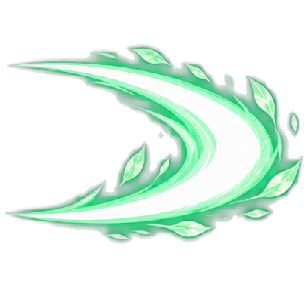
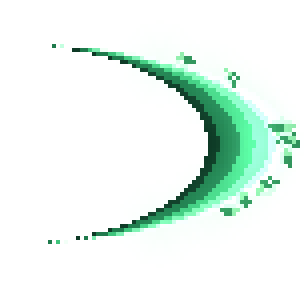
Effets pixelfx (test) : arc de la dague refait en croissant de lune pixel art (effet melee/moon-crescent ecrit avec pixelfx, 3 directions, meme canvas et meme zone de coup) et feu de camp pixelfx (36 images en boucle a 12 i/s au lieu de 4) ; originaux IA gardes ; scripts d'export dans tools/pixelfx

diff --git a/tools/pixelfx/moon-crescent.js b/tools/pixelfx/moon-crescent.js
@@ -1,0 +1,117 @@
+// Croissant de lune : l'arc de la dague d'Agarica (Legend of Agarica). Un croissant « ) » qui claque blanc,
+// s'épaissit en vert lunaire avec des feuilles arrachées sur son bord, puis s'effile en pointillés.
+import { Rng, fit, sparkle, clamp, smooth, ease, WHITE } from "../../core/index.js";
+
+export const meta = {
+  name: "Moon crescent",
+  desc: "A wide crescent snaps open white, swells into moon green with torn leaves riding its rim, then thins to a dotted trace as the leaves drift off.",
+  tags: ["melee", "slash", "dagger", "crescent", "leaves", "directional", "one-shot"],
+  size: [77, 72],
+  origin: [38, 36],
+  duration: 0.3,
+  loop: false,
+  fps: 30,
+  bg: "dark",
+  options: {
+    palette: ["#0e3a26", "#1f7a4c", "#3fc47c", "#7dedb0", "#c4ffe0", "#f2fff7"],
+    leaf: ["#2f8f58", "#8fe6a8", "#d8ffe6"],
+    // "side" : bombé vers la droite ; "up" : vers le haut ; "down" : vers le bas
+    dir: "side",
+    seed: 3,
+  },
+};
+
+// Gabarits par direction, en px autour du centre : `len` = du bout des pointes au sommet du bombé,
+// `half` = demi-ouverture, `thick` = épaisseur au sommet. Calés sur la zone de coup du jeu.
+const SHAPES = {
+  side: { len: 70, half: 25, thick: 21 },
+  up: { len: 66, half: 27, thick: 20 },
+  down: { len: 66, half: 27, thick: 20 },
+};
+
+// (u, v) : u le long du bombé (0 = pointes, len = sommet), v en travers. Rend la place dans le croissant :
+// q = 0 sur le bord extérieur, 1 sur le bord intérieur ; null dehors. `w` = épaisseur au sommet à cet instant.
+function inCrescent(S, u, v, w, grow) {
+  const k = v / S.half;
+  if (Math.abs(k) >= 1) return null;
+  // coque de demi-ellipse : les deux bords partent des pointes, l'épaisseur fond vers elles
+  const r = Math.sqrt(1 - k * k), uo = S.len * grow * r, local = Math.max(0.7, w * Math.pow(r, 0.85));
+  if (u > uo || u < uo - local) return null;
+  return { q: clamp((uo - u) / local), local, tip: r };
+}
+
+function toLocal(dir, x, y, S) {
+  // centre du gabarit au centre de l'image
+  if (dir === "up") return [S.len / 2 - y, x];
+  if (dir === "down") return [S.len / 2 + y, -x];
+  return [x + S.len / 2, y];
+}
+
+function fromLocal(dir, u, v, S) {
+  if (dir === "up") return [v, S.len / 2 - u];
+  if (dir === "down") return [-v, u - S.len / 2];
+  return [u - S.len / 2, v];
+}
+
+// petite feuille en losange, 2 tons, tournée selon `a`
+function leaf(p, x, y, a, s, L, k) {
+  const c = Math.cos(a), n = Math.sin(a);
+  for (let i = -s; i <= s; i++) {
+    const wd = Math.round((1 - Math.abs(i) / (s + 0.5)) * (s * 0.55));
+    for (let j = -wd; j <= wd; j++) p.dot(x + i * c - j * n, y + i * n + j * c, j < 0 ? L[2] : i > 0 ? L[1] : L[0], k);
+  }
+}
+
+export function draw(p, t, o) {
+  const dir = SHAPES[o.dir] ? o.dir : "side", S = SHAPES[dir];
+  const C = fit(o.palette, 6), L = fit(o.leaf, 3), n = C.length;
+  if (t >= meta.duration) return;
+  // trois temps de 0,1 s : claquement, plein, effacement
+  const open = ease.outExpo(clamp(t / 0.07)), fade = smooth(0.2, 0.3, t), full = smooth(0.06, 0.13, t);
+  const grow = 0.86 + 0.14 * open;
+  const w = S.thick * (0.42 + 0.58 * full) * (1 - fade * 0.72);
+  const young = t < 0.1;
+  const B = Math.max(S.len, S.half * 2) / 2 + 3;
+  // gabarit centré : la coque va de u = 0 (pointes) à u = len (sommet)
+  p.shade(-B, -B, B, B, (x, y, out) => {
+    const [u, v] = toLocal(dir, x, y, S);
+    const h = inCrescent(S, u, v, w, grow);
+    if (!h) return;
+    // bord extérieur blanc (le fil de la lame), puis la rampe refroidit vers l'intérieur et avec l'âge
+    let ci;
+    if (young) ci = h.q < 0.55 ? n - 1 : n - 2;
+    else if (h.q < 0.2 && fade < 0.5) ci = n - 1;
+    else ci = Math.round((1 - h.q) * (n - 2) - fade * 2.2 + (h.q < 0.45 ? 0.6 : 0));
+    out.c = C[clamp(ci, 0, n - 1)];
+    // les pointes et la fin se dissolvent dans le tramage
+    out.a = Math.min(1, h.tip * 2.4) * (1 - fade * (0.55 + 0.45 * h.q));
+  });
+  // lumière le long du fil, plus forte au sommet
+  for (let k = -0.8; k <= 0.8; k += 0.2) {
+    const [x, y] = fromLocal(dir, (S.len * grow - w * 0.4) * Math.sqrt(1 - k * k), k * S.half, S);
+    p.glow(x, y, 5 + w * 0.4, C[n - 3], (young ? 0.28 : 0.18) * (1 - fade) * (1 - Math.abs(k) * 0.6));
+  }
+  // éclat au sommet pendant le claquement
+  if (t < 0.1) {
+    const [x, y] = fromLocal(dir, S.len * grow - 3, 0, S);
+    sparkle(p, x, y, 3 * (1 - t / 0.1) + 1.5, WHITE, C[n - 2]);
+  }
+  // feuilles arrachées : nées sur le bord extérieur, elles partent vers le dehors et s'éteignent
+  const R = new Rng(o.seed);
+  for (let i = 0; i < 9; i++) {
+    const k = R.range(-0.92, 0.92), born = R.range(0.03, 0.1), sp = R.range(14, 46), spin = R.range(-5, 5), sz = R.range(1.6, 2.9), a0 = R.range(0, 6.28);
+    const drift = R.range(-10, 10);
+    if (t < born) continue;
+    const age = t - born, v0 = k * S.half, u0 = (S.len - 2) * Math.sqrt(1 - k * k);
+    const u = u0 + sp * 0.5 * age * (1 - age * 1.2), v = v0 + (k * 16 + drift) * age;
+    const [x, y] = fromLocal(dir, u, v, S);
+    leaf(p, x, y, a0 + spin * age, Math.round(sz), L, 1 - smooth(0.12, 0.26, age));
+  }
+  // traînée en pointillés là où le croissant s'est retiré
+  if (fade > 0.15) {
+    for (let k = -0.9; k <= 0.9; k += 0.07) {
+      const [x, y] = fromLocal(dir, (S.len - 1) * Math.sqrt(1 - k * k), k * S.half, S);
+      if (Math.round((k + 1) * 14) % 2 === 0) p.dot(x, y, C[2], (1 - fade) * 0.9);
+    }
+  }
+}

diff --git a/src/data/pixel_fixed.js b/src/data/pixel_fixed.js
@@ -3,6 +3,51 @@
 // BootScene les affiche sans lissage (NEAREST) ; import_codex_assets.py ne
 // les réécrit pas. `f` : px de l'image = 1 pixel dessiné ; `set` : le lot.
 const PIXEL_FIXED = {
+  "assets/vfx/vfx_slash_frames/vfx_slash_row0_0.png": {"f":4,"set":"pixelfx:vfx_slash"},
+  "assets/vfx/vfx_slash_frames/vfx_slash_row0_1.png": {"f":4,"set":"pixelfx:vfx_slash"},
+  "assets/vfx/vfx_slash_frames/vfx_slash_row0_2.png": {"f":4,"set":"pixelfx:vfx_slash"},
+  "assets/vfx/vfx_slash_frames/vfx_slash_row1_0.png": {"f":4,"set":"pixelfx:vfx_slash"},
+  "assets/vfx/vfx_slash_frames/vfx_slash_row1_1.png": {"f":4,"set":"pixelfx:vfx_slash"},
+  "assets/vfx/vfx_slash_frames/vfx_slash_row1_2.png": {"f":4,"set":"pixelfx:vfx_slash"},
+  "assets/vfx/vfx_slash_frames/vfx_slash_row2_0.png": {"f":4,"set":"pixelfx:vfx_slash"},
+  "assets/vfx/vfx_slash_frames/vfx_slash_row2_1.png": {"f":4,"set":"pixelfx:vfx_slash"},
+  "assets/vfx/vfx_slash_frames/vfx_slash_row2_2.png": {"f":4,"set":"pixelfx:vfx_slash"},
+  "assets/items/feu_de_camp_frames/feu_0.png": {"f":10,"set":"pixelfx:feu_de_camp"},
+  "assets/items/feu_de_camp_frames/feu_1.png": {"f":10,"set":"pixelfx:feu_de_camp"},
+  "assets/items/feu_de_camp_frames/feu_10.png": {"f":10,"set":"pixelfx:feu_de_camp"},
+  "assets/items/feu_de_camp_frames/feu_11.png": {"f":10,"set":"pixelfx:feu_de_camp"},
+  "assets/items/feu_de_camp_frames/feu_12.png": {"f":10,"set":"pixelfx:feu_de_camp"},
+  "assets/items/feu_de_camp_frames/feu_13.png": {"f":10,"set":"pixelfx:feu_de_camp"},
+  "assets/items/feu_de_camp_frames/feu_14.png": {"f":10,"set":"pixelfx:feu_de_camp"},
+  "assets/items/feu_de_camp_frames/feu_15.png": {"f":10,"set":"pixelfx:feu_de_camp"},
+  "assets/items/feu_de_camp_frames/feu_16.png": {"f":10,"set":"pixelfx:feu_de_camp"},
+  "assets/items/feu_de_camp_frames/feu_17.png": {"f":10,"set":"pixelfx:feu_de_camp"},
+  "assets/items/feu_de_camp_frames/feu_18.png": {"f":10,"set":"pixelfx:feu_de_camp"},
+  "assets/items/feu_de_camp_frames/feu_19.png": {"f":10,"set":"pixelfx:feu_de_camp"},
+  "assets/items/feu_de_camp_frames/feu_2.png": {"f":10,"set":"pixelfx:feu_de_camp"},
+  "assets/items/feu_de_camp_frames/feu_20.png": {"f":10,"set":"pixelfx:feu_de_camp"},
+  "assets/items/feu_de_camp_frames/feu_21.png": {"f":10,"set":"pixelfx:feu_de_camp"},
+  "assets/items/feu_de_camp_frames/feu_22.png": {"f":10,"set":"pixelfx:feu_de_camp"},
+  "assets/items/feu_de_camp_frames/feu_23.png": {"f":10,"set":"pixelfx:feu_de_camp"},
+  "assets/items/feu_de_camp_frames/feu_24.png": {"f":10,"set":"pixelfx:feu_de_camp"},
+  "assets/items/feu_de_camp_frames/feu_25.png": {"f":10,"set":"pixelfx:feu_de_camp"},
+  "assets/items/feu_de_camp_frames/feu_26.png": {"f":10,"set":"pixelfx:feu_de_camp"},
+  "assets/items/feu_de_camp_frames/feu_27.png": {"f":10,"set":"pixelfx:feu_de_camp"},
+  "assets/items/feu_de_camp_frames/feu_28.png": {"f":10,"set":"pixelfx:feu_de_camp"},
+  "assets/items/feu_de_camp_frames/feu_29.png": {"f":10,"set":"pixelfx:feu_de_camp"},
+  "assets/items/feu_de_camp_frames/feu_3.png": {"f":10,"set":"pixelfx:feu_de_camp"},
+  "assets/items/feu_de_camp_frames/feu_30.png": {"f":10,"set":"pixelfx:feu_de_camp"},
+  "assets/items/feu_de_camp_frames/feu_31.png": {"f":10,"set":"pixelfx:feu_de_camp"},
+  "assets/items/feu_de_camp_frames/feu_32.png": {"f":10,"set":"pixelfx:feu_de_camp"},
+  "assets/items/feu_de_camp_frames/feu_33.png": {"f":10,"set":"pixelfx:feu_de_camp"},
+  "assets/items/feu_de_camp_frames/feu_34.png": {"f":10,"set":"pixelfx:feu_de_camp"},
+  "assets/items/feu_de_camp_frames/feu_35.png": {"f":10,"set":"pixelfx:feu_de_camp"},
+  "assets/items/feu_de_camp_frames/feu_4.png": {"f":10,"set":"pixelfx:feu_de_camp"},
+  "assets/items/feu_de_camp_frames/feu_5.png": {"f":10,"set":"pixelfx:feu_de_camp"},
+  "assets/items/feu_de_camp_frames/feu_6.png": {"f":10,"set":"pixelfx:feu_de_camp"},
+  "assets/items/feu_de_camp_frames/feu_7.png": {"f":10,"set":"pixelfx:feu_de_camp"},
+  "assets/items/feu_de_camp_frames/feu_8.png": {"f":10,"set":"pixelfx:feu_de_camp"},
+  "assets/items/feu_de_camp_frames/feu_9.png": {"f":10,"set":"pixelfx:feu_de_camp"},
   "assets/decors/tuiles_corrompues_frames/coin.png": {"f":5.33,"set":"tiles:tuiles_corrompues"},
   "assets/decors/tuiles_corrompues_frames/dirt_angle.png": {"f":5.33,"set":"tiles:tuiles_corrompues"},
   "assets/decors/tuiles_corrompues_frames/dirt_b.png": {"f":5.33,"set":"tiles:tuiles_corrompues"},

diff --git a/src/utils/LevelKit.js b/src/utils/LevelKit.js
@@ -2585,7 +2585,10 @@ function addAbilityShrine(scene, x, y, flagName, message, scale = TOTEM_SCALE) {
 // flamme, ce qui ferait exploser tools/split_spritesheet.py habituel en
 // dizaines de micro-frames). Purement décoratif (pas de collision, pas de
 // lumière/chaleur), juste une boucle d'anim en continu.
-const CAMPFIRE_FRAME_COUNT = 4;
+// 2026-11-11 : feu refait avec pixelfx (fire/campfire, E:\projet\pixelfx) : 36 images,
+// 3 s en boucle à 12 i/s (avant : 4 flambées IA à 8 i/s, gardées dans
+// assets/_pixelfix_originals/items/feu_de_camp_frames/).
+const CAMPFIRE_FRAME_COUNT = 36;
 const CAMPFIRE_TEXTURE_PREFIX = 'decor-campfire-';
 const ANIM_CAMPFIRE_BURN_KEY = 'campfire-burn';
 const CAMPFIRE_SCALE = 0.15;
@@ -2596,7 +2599,7 @@ function ensureCampfireAnimation(scene) {
   scene.anims.create({
     key: ANIM_CAMPFIRE_BURN_KEY,
     frames: Array.from({ length: CAMPFIRE_FRAME_COUNT }, (_, i) => ({ key: `${CAMPFIRE_TEXTURE_PREFIX}${i}` })),
-    frameRate: 8,
+    frameRate: 12,
     repeat: -1,
   });
 }
@@ -2639,9 +2642,9 @@ function addCampfire(scene, x, y, scale = CAMPFIRE_SCALE, { index = 0 } = {}) {
   fire.y = footY + GROUND_CONTACT_SINK;
   // Juice : halo chaud qui respire derrière la flamme, braises qui montent et
   // petites gerbes d'étincelles au hasard (cf. l'update plus bas).
-  const flameY = footY - fire.displayHeight * 0.42;
+  const flameY = footY - fire.displayHeight * 0.28;
   const glowTex = juiceTexture(scene, 'fx_halo_doux', 'juice-glow');
-  const glowScale = (fire.displayWidth * 3.4 * (glowTex.art ? JUICE_HALO_ART_BOOST : 1)) / glowTex.size;
+  const glowScale = (fire.displayWidth * 2.4 * (glowTex.art ? JUICE_HALO_ART_BOOST : 1)) / glowTex.size;
   const halo = scene.add.image(x, flameY, glowTex.key).setBlendMode(Phaser.BlendModes.ADD)
     .setTint(0xffa860).setAlpha(0.3).setScale(glowScale);
   scene.children.moveBelow(halo, fire);
@@ -2655,7 +2658,7 @@ function addCampfire(scene, x, y, scale = CAMPFIRE_SCALE, { index = 0 } = {}) {
   // rythme). Purement décorative ; sans l'image, rien (le halo suffit).
   if (scene.textures.exists('item-fx_lueur_sol')) {
     const pool = scene.add.image(x, footY - 2, 'item-fx_lueur_sol').setBlendMode(Phaser.BlendModes.ADD)
-      .setTint(0xffa860).setDisplaySize(fire.displayWidth * 3, 30).setAlpha(0.3);
+      .setTint(0xffa860).setDisplaySize(fire.displayWidth * 2, 30).setAlpha(0.3);
     scene.children.moveBelow(pool, fire);
     scene.tweens.add({ targets: pool, alpha: { from: 0.25, to: 0.4 }, duration: 950, yoyo: true, repeat: -1, ease: 'Sine.easeInOut' });
   }

diff --git a/tools/pixelfx/LISEZMOI.md b/tools/pixelfx/LISEZMOI.md
@@ -1,0 +1,12 @@
+# Effets faits avec pixelfx
+
+pixelfx (https://github.com/patch-gg/pixelfx, MIT) est cloné à côté du jeu, dans `E:\projet\pixelfx`.
+
+- `moon-crescent.js` : l'effet de l'arc de la dague (à copier dans `E:\projet\pixelfx\src\fx\melee\`).
+- `node tools/pixelfx/export_slash.mjs <dossier>` : rend les 9 images de `vfx_slash` (308x288).
+- `node tools/pixelfx/export_feu.mjs <dossier>` : rend les 36 images du feu de camp (fire/campfire).
+
+Copier ensuite les images dans `assets/vfx/vfx_slash_frames/` et `assets/items/feu_de_camp_frames/`.
+Les originaux IA sont dans `assets/_pixelfix_originals/` ; `node tools/pixelfix.js restore
+assets/vfx/vfx_slash_frames` remet l'arc d'origine (pour le feu, remettre aussi
+CAMPFIRE_FRAME_COUNT = 4 et frameRate 8 dans LevelKit.js).
